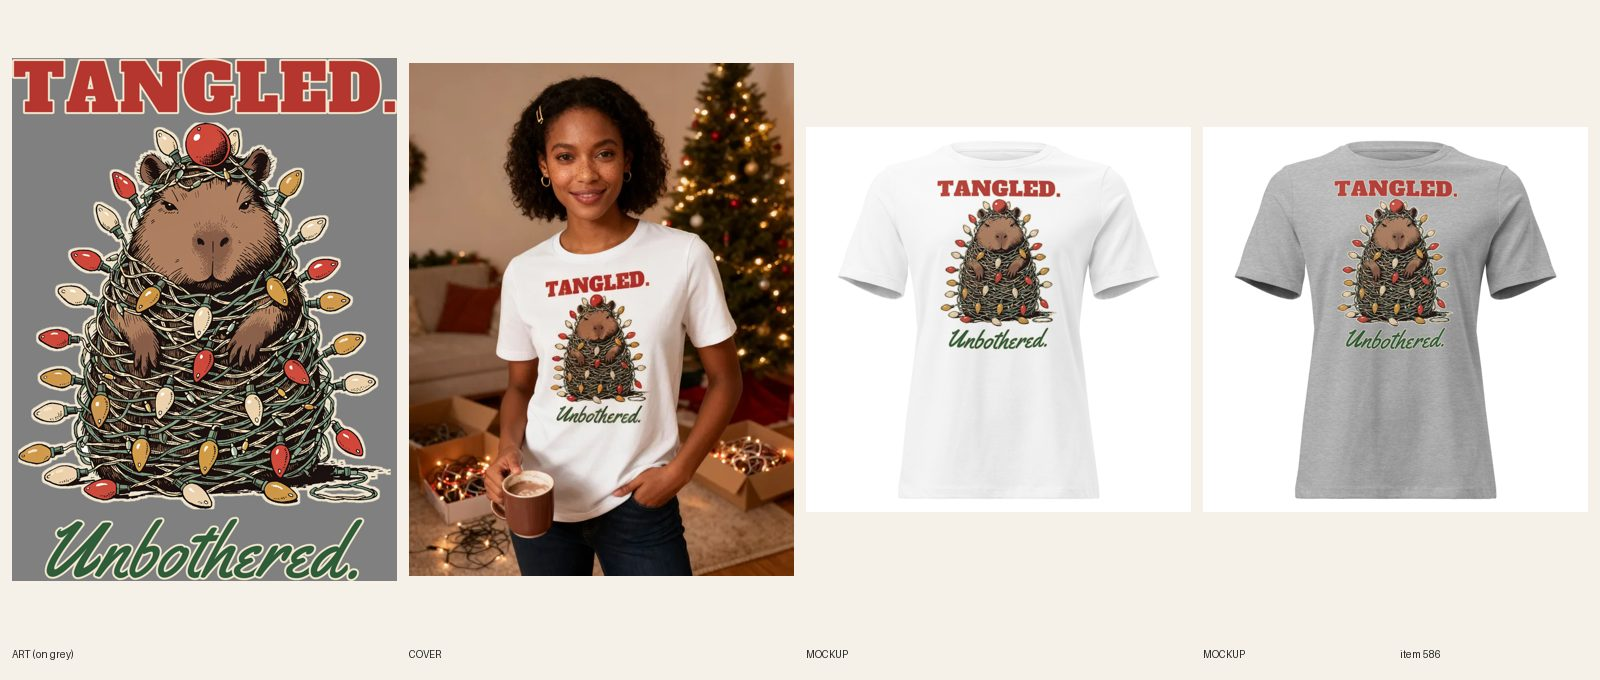
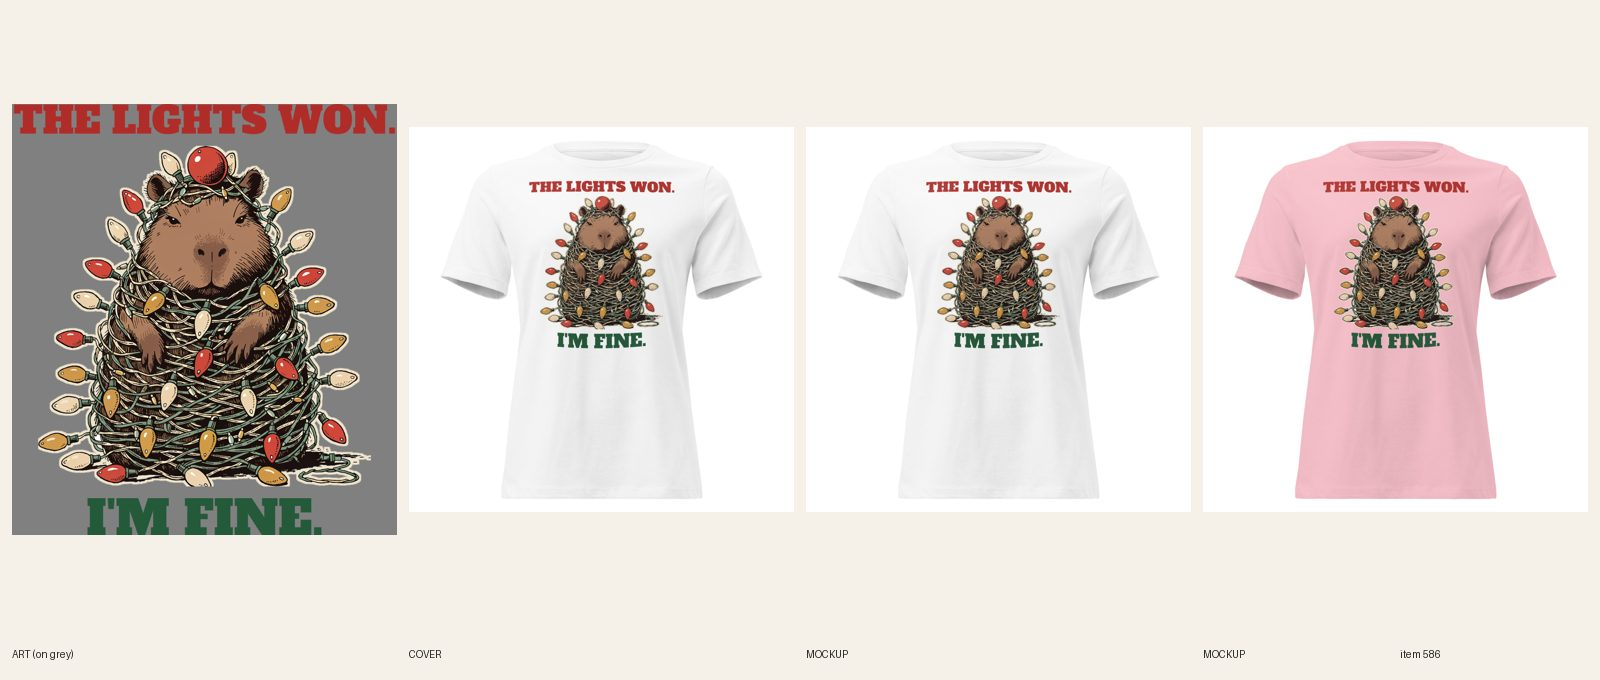
[A] review 586 (redo)
Claude-Session: https://claude.ai/code/session_01LaaEYpKaSBZd9opL7Tpo7i

diff --git a/docs/pipeline/586-capybara-christmas-tee-tangled-unbothered.md b/docs/pipeline/586-capybara-christmas-tee-tangled-unbothered.md
@@ -1,4 +1,4 @@
-status: BUILDING [A] 2026-10-20 10:00 UTC
+status: REVIEW
 lane: A
 type: new
 id: 586
@@ -32,3 +32,4 @@ shopify: gid://shopify/Product/15364857004336
 - 2026-10-18 07:15 UTC builder [A]: REVIEW: Printful sync 482701016 verified 30/30 on default file 1088743911 (FW 1260 TOP 60, back logo 1080398177); 5 colors each with its own mockup (White, Natural, Heather Stone, Athletic Heather, Pink) + back; phone-size read: TANGLED. and Unbothered. read on every color; cover registry #926 (seedream 1 attempt $0.06, White mockup as design): both lines read, mug at hip, hair clear; audit-local PASS 0 warn (only 'not visible' for a draft); R6.2 N/A (new art). Keyword capybara christmas 5,400/KD31 in map. design-crops cannot see drafts (Storefront): run after publish.
 - 2026-10-18 07:27 UTC director: approved from docs/review/586.jpg; ACTIVE + Online Store + Headless + Google & YouTube. Mug at the hip, both lines read on every mockup. Sheet to reference/best. audit --handle PASS (0 warn). LIVE.
 - 2026-10-18 17:22 UTC director: QUALITY RESET grade C (new line + type), REDO. The product stays ACTIVE (same handle, URL, title keyword). 1. Line (R3.12, quality-reset 'Lines'): "Tangled. / Unbothered.": Noun + mild aside, describes the picture; also thin green script under art. Write 5 candidates, keep the one a stranger laughs at in 3 seconds without backstory; kill lines that only describe the picture; if none of the 5 is funny, PARK it. 2. Quality reset type bar (docs/backlog/quality-reset.md, 'The new bar'): headline at least 90% of the art width, heavy, colors pulled from the art; second line at least 45% of the headline's height, never a thin script on a dark or mid garment; use the lettering as a shape (arch, stacked lockup, words breaking into the art), not a plain bar above and a script line below; no font used on more than 1 in 6 of the last 30 designs. 3. Keep the art if it carries the new line, else one new illustration (R4/R5). New print means a new cover per R6.10, copy line one rewritten for the new joke (R8.3), and a fresh review sheet (R7.7). While quality-reset.md says PAUSED, only lane A builds, and only the samples step 2 names.
+- 2026-10-20 10:16 UTC builder [A]: REDO grade C done (new line + type). Line: THE LIGHTS WON. / I'M FINE. (5 candidates; the calm capybara's surrender kept; not the "decorated" angle already on the sibling zip hoodie; title and handle unchanged). Same capybara-in-lights art (old two lines cropped off, 2754x2735), Alfa Slab One headline at full print width (3266 px) and punchline 2006 px, red + pine green, lockup 3300x3696, FW 1500 TOP 75. One dark-ink file on all five light colors (no cream fill): 1090290293. Back logo 1080398177 kept. Relinked 30/30 verified. 5 fronts replaced in place (fileUpdate), phone-size read ok on all 5. Copy: Story line one, lettering sentence; SEO title/meta updated; 5 FAQs, Dec 8 kept; no R8.3 opener. Cover: handle added to retired-covers.json (plain product shot). fal $0. audit --handle PASS; astro build ok.

diff --git a/docs/intake-log.md b/docs/intake-log.md
@@ -1,4 +1,5 @@
 RUNNING director since 2026-10-20 09:15 UTC
+2026-10-20 10:16 UTC — [A] Builder run: redid #586 Women's Christmas Capybara tee (line+type: THE LIGHTS WON. / I'M FINE., same capybara-in-lights art, Alfa Slab full width, file 1090290293, 30/30 relinked, 5 fronts replaced in place, copy updated, plain product shot). REVIEW. fal $0.
 2026-10-20 10:00 UTC — [A] Builder run: redid #580 Men's Drummer Professionally Loud tee (line+type: IT'S NOT ME. / IT'S THE DRUMS., same jazz-club drummer art, Bowlby One full width, light file 1090276133 / dark file 1090276150, 56/56 relinked, 8 fronts replaced in place, copy updated, plain product shot). REVIEW. fal $0.
 RUNNING helper since 2026-10-20 09:47 UTC
 2026-10-20 10:14 UTC — [B] Builder run: redid #575 Men's Christian tee (line + type: STILL UNDER / CONSTRUCTION., same workbench art, Fraunces, cream/gold file on 5 dark colors + dark-ink file on 4 light, 63/63 synced). REVIEW. fal $0.
